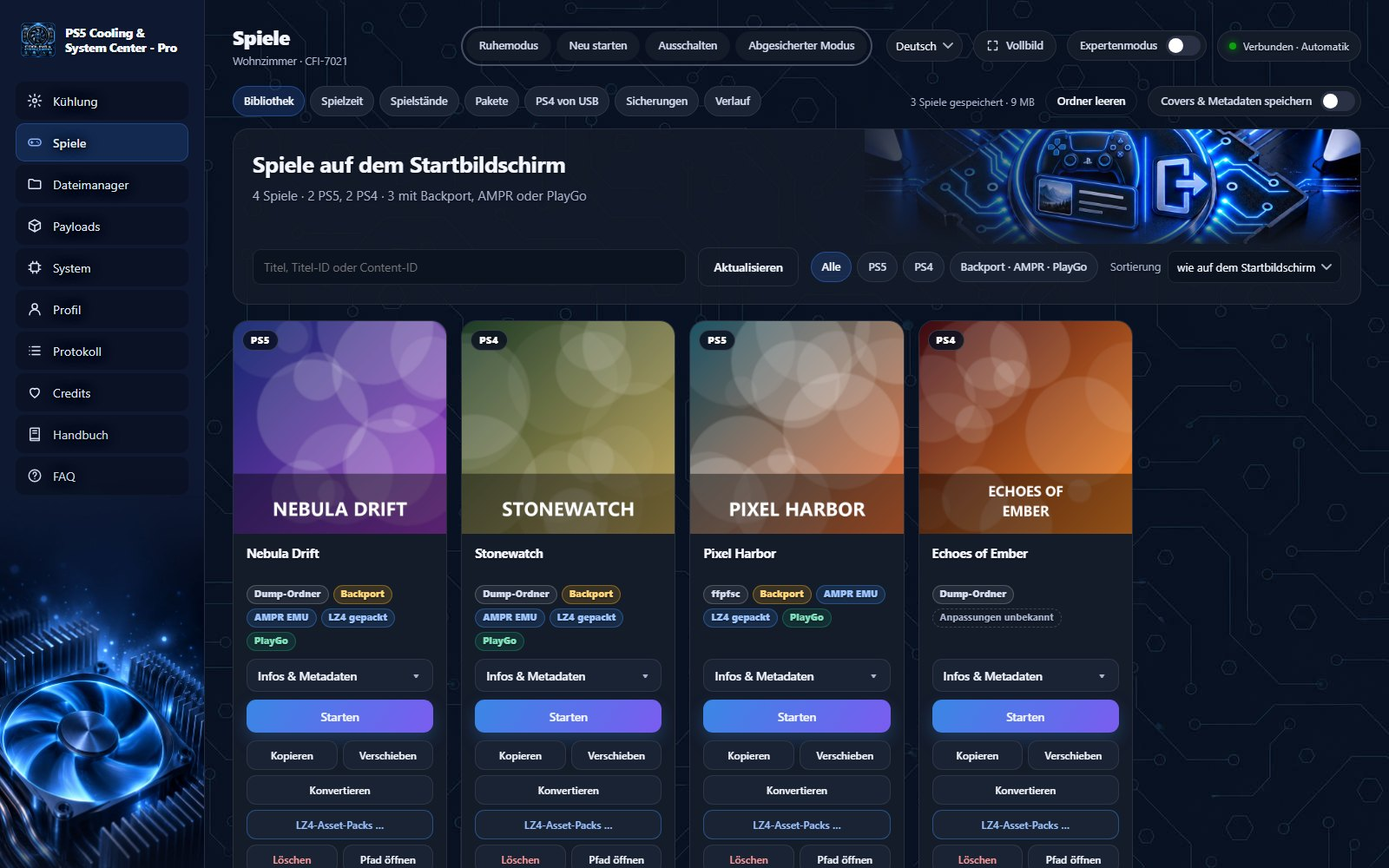
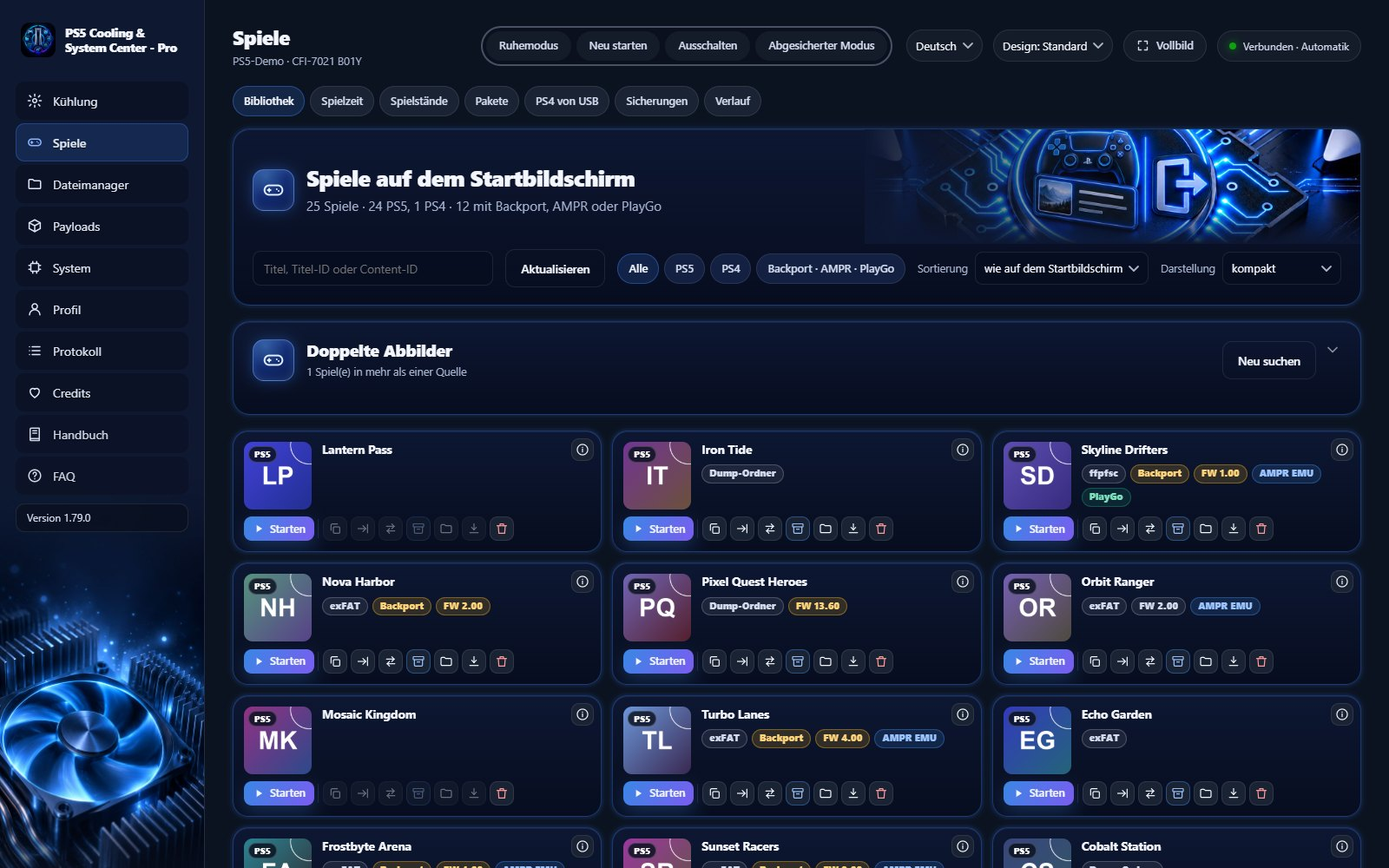
Expert mode only on the System page (default off), README with new pictures
- The expert-mode switch is gone from the header; it sits in the System
  banner next to "Läuft seit". Default is off; an existing "on" is reset once.
- Manual (7 languages) adjusted.
- README (7 languages): new pictures from the current UI with sample data
  (cooling, games in compact view, games in large view, system, profile);
  compact view named as the default, both views in the feature list.

diff --git a/web/handbuch.ru.html b/web/handbuch.ru.html
@@ -136,8 +136,8 @@ background:rgba(20,27,41,.92);border:1px solid rgba(59,130,246,.55);color:#cfe0f
 <div class='tip'>Прежний значок в «Медиа» (PSCC69690) больше не нужен и больше не создаётся; удалённый не вернётся.</div>
 <!--starter--></section><section class='ch' id='oberflaeche'><div class='ch-head'><div class='ch-num'>4</div><h2>Обзор интерфейса</h2></div>
 <p>Слева находится боковая панель с разделами <b>Профиль, Игры, Файлы, Payloads, Охлаждение, Система, Журнал</b> и
-<b>Благодарности</b>. Вверху в строке заголовка, на каждой странице: <b>параметры питания</b>, «Во весь экран», «Режим эксперта» и
-индикатор подключения.</p>
+<b>Благодарности</b>. Вверху в строке заголовка, на каждой странице: <b>параметры питания</b>, «Во весь экран» и
+индикатор подключения. «Режим эксперта» теперь только на странице <b>Система</b> и по умолчанию выключен.</p>
 <p>«Во весь экран» скрывает панель задач и рамку окна браузера. В браузере самой PS5 первое нажатие на странице само переключает на полный экран; на ПК и телефоне страница остаётся в обычном окне, пока вы не нажмёте «Во весь экран» (кнопка запоминает это, «Выйти из полноэкранного режима» снова отключает). Под пунктом «FAQ» в боковой панели указана версия работающего приложения.</p>
 <p><b>Оформление.</b> Рядом с языком выбирается одно из четырёх оформлений: <b>Стандартное</b> (тёмно-синее со светящимися краями), <b>Светлое</b> (приглушённый серо-голубой, не слепит), <b>Тёмное</b> (почти чёрное, без свечения) и <b>Оптимальное</b> (для телевизора и PS5: сильный контраст, крупнее шрифт, без прозрачности и теней, рисуется быстрее всего). Каждое устройство запоминает свой выбор, например «Оптимальное» на телевизоре и «Светлое» на телефоне.</p>
 <h3>Параметры питания</h3>

diff --git a/web/index.html b/web/index.html
@@ -109,10 +109,6 @@
             <svg viewBox="0 0 24 24" aria-hidden="true"><path d="M4 9V4h5M20 9V4h-5M4 15v5h5M20 15v5h-5"></path></svg>
             <span id="fs-text">Vollbild</span>
           </button>
-          <label class="xswitch" for="expert-mode-top">
-            <span>Expertenmodus</span>
-            <span class="switch"><input type="checkbox" id="expert-mode-top"><i></i></span>
-          </label>
           <div class="conn" id="conn"><i></i><span id="conn-text">Verbinde …</span></div>
         </div>
       </header>
@@ -1272,10 +1268,17 @@
           <article class="card page-banner pb-system">
             <h2>Deine Konsole</h2>
             <p class="pb-sub">Hardware, Speicher und Netzwerk auf einen Blick.</p>
-            <div class="pb-stats">
+            <div class="pb-stats pb-stats-x">
               <div class="co-stat"><span class="ov-label">Modell</span><strong class="pb-val" id="sy-model">--</strong></div>
               <div class="co-stat"><span class="ov-label">Firmware</span><strong class="pb-val" id="sy-fw">--</strong></div>
               <div class="co-stat"><span class="ov-label">Läuft seit</span><strong class="pb-val" id="sy-uptime">--</strong></div>
+              <!-- Der Expertenmodus (11.11.2026): nur hier, rechts neben „Läuft seit“ -->
+              <div class="co-stat pb-expert">
+                <label class="xswitch" for="expert-mode" title="zeigt zusätzliche Roh- und Diagnosewerte">
+                  <span>Expertenmodus</span>
+                  <span class="switch"><input type="checkbox" id="expert-mode"><i></i></span>
+                </label>
+              </div>
             </div>
           </article>
 
@@ -1630,10 +1633,6 @@
               <label class="switch-row">
                 <span><b>Prospero Lights aktivieren</b><small>DualSense-Licht als Temperaturampel (best effort)</small></span>
                 <span class="switch"><input type="checkbox" id="s-lightbar-enabled"><i></i></span>
-              </label>
-              <label class="switch-row">
-                <span><b>Expertenmodus</b><small>zeigt zusätzliche Roh- und Diagnosewerte</small></span>
-                <span class="switch"><input type="checkbox" id="expert-mode"><i></i></span>
               </label>
               <label class="switch-row">
                 <span><b>Nur bestätigte Rohsensorwerte</b><small>blendet unbestätigte Kanal-Heuristiken aus</small></span>

diff --git a/web/handbuch.fr.html b/web/handbuch.fr.html
@@ -136,8 +136,8 @@ Arrête une ancienne instance sur la page « Payloads », sinon un redémarrage 
 <div class='tip'>L’ancienne vignette Multimédia (PSCC69690) n’est plus nécessaire ni créée ; une vignette supprimée ne revient pas.</div>
 <!--starter--></section><section class='ch' id='oberflaeche'><div class='ch-head'><div class='ch-num'>4</div><h2>L’interface en un coup d’œil</h2></div>
 <p>À gauche se trouve la barre latérale avec les sections <b>Profil, Jeux, Fichiers, Payloads, Refroidissement, Système, Journal</b> et
-<b>Crédits</b>. En haut, dans la barre d’en-tête, sur chaque page : les <b>options d’alimentation</b>, « Plein écran », « Mode expert » et
-l’indicateur de connexion.</p>
+<b>Crédits</b>. En haut, dans la barre d’en-tête, sur chaque page : les <b>options d’alimentation</b>, « Plein écran » et
+l’indicateur de connexion. Le « Mode expert » ne se trouve plus que sur la page <b>Système</b> et est désactivé par défaut.</p>
 <p>« Plein écran » masque la barre des tâches et le cadre de fenêtre du navigateur. Dans le navigateur de la PS5 elle-même, le premier appui sur la page passe tout seul en plein écran ; sur un PC ou un téléphone, la page reste dans une fenêtre normale jusqu’à ce que vous appuyiez sur « Plein écran » (le bouton s’en souvient, « Quitter le plein écran » le désactive). Sous l’entrée « FAQ » de la barre latérale se trouve la version de l’appli en cours d’exécution.</p>
 <p><b>Thème.</b> À côté de la langue, tu choisis l'un des quatre thèmes : <b>Standard</b> (bleu foncé aux bords lumineux), <b>Clair</b> (gris-bleu doux, n'éblouit pas), <b>Sombre</b> (presque noir, sans halo) et <b>Optimal</b> (pour la télévision et la PS5 : contraste marqué, texte plus grand, sans transparence ni ombres, le plus rapide à afficher). Chaque appareil retient son propre choix, par exemple « Optimal » sur la télévision et « Clair » sur le téléphone.</p>
 <h3>Options d’alimentation</h3>

diff --git a/web/handbuch.it.html b/web/handbuch.it.html
@@ -136,8 +136,8 @@ Chiudi un’istanza vecchia nella pagina «Payloads», altrimenti aiuta un riavv
 <div class='tip'>Il vecchio riquadro Multimedia (PSCC69690) non serve più e non viene più creato; se lo elimini non torna.</div>
 <!--starter--></section><section class='ch' id='oberflaeche'><div class='ch-head'><div class='ch-num'>4</div><h2>L'interfaccia in breve</h2></div>
 <p>A sinistra c'è la barra laterale con le sezioni <b>Profilo, Giochi, File, Payload, Raffreddamento, Sistema, Registro</b> e
-<b>Riconoscimenti</b>. In alto nell'intestazione, su ogni pagina: le <b>opzioni di alimentazione</b>, «Schermo intero», «Modalità esperto» e
-l'indicatore di connessione.</p>
+<b>Riconoscimenti</b>. In alto nell'intestazione, su ogni pagina: le <b>opzioni di alimentazione</b>, «Schermo intero» e
+l'indicatore di connessione. La «Modalità esperto» si trova solo nella pagina <b>Sistema</b> ed è disattivata per impostazione predefinita.</p>
 <p>«Schermo intero» nasconde la barra delle applicazioni e la cornice della finestra del browser. Nel browser della PS5 stessa, il primo tocco sulla pagina passa da solo a schermo intero; su PC o telefono la pagina resta in una finestra normale finché non premi «Schermo intero» (il pulsante lo ricorda, «Esci da schermo intero» lo disattiva). Sotto la voce «FAQ» della barra laterale trovi la versione dell’app in esecuzione.</p>
 <p><b>Tema.</b> Accanto alla lingua scegli uno dei quattro temi: <b>Standard</b> (blu scuro con bordi luminosi), <b>Chiaro</b> (grigio-azzurro tenue, non abbaglia), <b>Scuro</b> (quasi nero, senza bagliore) e <b>Ottimale</b> (per il televisore e la PS5: contrasto deciso, testo più grande, senza trasparenze né ombre, il più rapido da disegnare). Ogni dispositivo ricorda la propria scelta, per esempio «Ottimale» sul televisore e «Chiaro» sul telefono.</p>
 <h3>Opzioni di alimentazione</h3>

diff --git a/web/handbuch.es.html b/web/handbuch.es.html
@@ -136,8 +136,8 @@ Detén una instancia antigua en la página «Payloads»; si no, ayuda reiniciar.
 <div class='tip'>El antiguo mosaico de Multimedia (PSCC69690) ya no hace falta y ya no se crea; si lo borras, no vuelve.</div>
 <!--starter--></section><section class='ch' id='oberflaeche'><div class='ch-head'><div class='ch-num'>4</div><h2>La interfaz de un vistazo</h2></div>
 <p>A la izquierda está la barra lateral con las secciones <b>Perfil, Juegos, Archivos, Payloads, Refrigeración, Sistema, Registro</b> y
-<b>Créditos</b>. Arriba, en la barra superior de cada página: las <b>opciones de alimentación</b>, «Pantalla completa», «Modo experto» y el
-indicador de conexión.</p>
+<b>Créditos</b>. Arriba, en la barra superior de cada página: las <b>opciones de alimentación</b>, «Pantalla completa» y el
+indicador de conexión. El «Modo experto» solo está en la página <b>Sistema</b> y viene desactivado de fábrica.</p>
 <p>«Pantalla completa» oculta la barra de tareas y el marco de ventana del navegador. En el navegador de la propia PS5, la primera pulsación en la página pasa sola a pantalla completa; en un PC o móvil la página permanece en una ventana normal hasta que pulsas «Pantalla completa» (el botón lo recuerda, «Salir de pantalla completa» lo desactiva). Bajo la entrada «FAQ» de la barra lateral está la versión de la app en ejecución.</p>
 <p><b>Diseño.</b> Junto al idioma eliges uno de cuatro diseños: <b>Estándar</b> (azul oscuro con bordes luminosos), <b>Claro</b> (gris azulado suave, no deslumbra), <b>Oscuro</b> (casi negro, sin brillo) y <b>Óptimo</b> (para el televisor y la PS5: contraste fuerte, letra más grande, sin transparencias ni sombras, el más rápido de dibujar). Cada dispositivo recuerda su propia elección, por ejemplo «Óptimo» en el televisor y «Claro» en el móvil.</p>
 <h3>Opciones de alimentación</h3>

diff --git a/web/handbuch.html b/web/handbuch.html
@@ -136,8 +136,8 @@ Eine alte Instanz beendest du auf der Seite „Payloads“, sonst hilft ein Neus
 <div class='tip'>Die frühere Medien-Kachel (PSCC69690) wird nicht mehr gebraucht und nicht mehr angelegt; eine gelöschte kommt nicht zurück.</div>
 <!--starter--></section><section class='ch' id='oberflaeche'><div class='ch-head'><div class='ch-num'>4</div><h2>Die Oberfläche im Überblick</h2></div>
 <p>Links steht die Seitenleiste mit den Bereichen <b>Profil, Spiele, Dateien, Payloads, Kühlung, System, Protokoll</b> und
-<b>Credits</b>. Oben in der Kopfzeile, auf jeder Seite: die <b>Power-Optionen</b>, „Vollbild“, „Expertenmodus“ und die
-Verbindungsanzeige.</p>
+<b>Credits</b>. Oben in der Kopfzeile, auf jeder Seite: die <b>Power-Optionen</b>, „Vollbild“ und die
+Verbindungsanzeige. „Expertenmodus“ steht nur noch auf der Seite <b>System</b> und ist ab Werk aus.</p>
 <p>„Vollbild“ blendet die Taskleiste und den Fensterrahmen des Browsers aus. Im Browser der PS5 selbst schaltet schon der erste Druck auf die Seite von allein in den Vollbild-Modus; am PC und am Handy bleibt die Seite in einem normalen Fenster, bis du „Vollbild“ drückst (der Knopf merkt sich das, „Vollbild beenden“ schaltet es wieder ab). Unter dem Eintrag „FAQ“ in der Seitenleiste steht die Version der laufenden App.</p>
 <p><b>Design.</b> Neben der Sprache wählst du eines von vier Designs: <b>Standard</b> (dunkelblau mit leuchtenden Rändern), <b>Hell</b> (gedämpftes Grau-Blau, blendet nicht), <b>Dunkel</b> (fast schwarz, ohne Leuchten) und <b>Optimal</b> (für Fernseher und PS5: kräftiger Kontrast, größere Schrift, ohne Durchscheinen und Schatten, am schnellsten gezeichnet). Jedes Gerät merkt sich seine Wahl selbst, etwa „Optimal“ am Fernseher und „Hell“ am Handy.</p>
 <h3>Power-Optionen</h3>

diff --git a/web/app.js b/web/app.js
@@ -316,7 +316,18 @@
     try { localStorage.setItem(DIAG_WINDOW_KEY, String(v)); } catch {}
   };
 
+  /* Ab Werk aus (11.11.2026): Wer den Modus vorher eingeschaltet hatte, bekommt ihn einmal ausgeschaltet; danach gilt wieder seine Wahl. */
+  const EXPERT_RESET_KEY = "ps5tm.expertReset";
+  const expertResetOnce = () => {
+    try {
+      if (localStorage.getItem(EXPERT_RESET_KEY) !== "20261111") {
+        localStorage.setItem(EXPERT_MODE_KEY, "0");
+        localStorage.setItem(EXPERT_RESET_KEY, "20261111");
+      }
+    } catch {}
+  };
   const loadExpertMode = () => {
+    expertResetOnce();
     try {
       return localStorage.getItem(EXPERT_MODE_KEY) === "1";
     } catch {
@@ -747,7 +758,7 @@
       saveExpertMode(state.expertMode);
       /* Beide Schalter und die Seitenklasse, wie applyExpertMode() weiter
          unten — hier von Hand, weil die Funktion erst später definiert ist. */
-      ["#expert-mode", "#expert-mode-top"].forEach((sel) => {
+      ["#expert-mode"].forEach((sel) => {
         const el = $(sel);
         if (el) el.checked = state.expertMode;
       });
@@ -12255,10 +12266,9 @@
     });
   }
 
-  /* Zwei Schalter, ein Zustand: oben in der Kopfzeile (neu, 19.09.2026) und
-     der bisherige auf der System-Seite. Die Klasse am <body> blendet den
+  /* Der Schalter steht nur noch auf der System-Seite (11.11.2026; vorher auch oben in der Kopfzeile). Die Klasse am <body> blendet den
      Expertenbereich ein (siehe .expert-only in style.css). */
-  const expertSwitches = ["#expert-mode", "#expert-mode-top"].map((sel) => $(sel)).filter(Boolean);
+  const expertSwitches = ["#expert-mode"].map((sel) => $(sel)).filter(Boolean);
   const applyExpertMode = (on) => {
     state.expertMode = !!on;
     document.body.classList.toggle("expert", state.expertMode);

diff --git a/web/handbuch.sv.html b/web/handbuch.sv.html
@@ -136,8 +136,8 @@ Stoppa en gammal instans på sidan ”Payloads”, annars hjälper en omstart.</
 <div class='tip'>Den tidigare mediebrickan (PSCC69690) behövs inte längre och skapas inte längre; en borttagen kommer inte tillbaka.</div>
 <!--starter--></section><section class='ch' id='oberflaeche'><div class='ch-head'><div class='ch-num'>4</div><h2>Gränssnittet i korthet</h2></div>
 <p>Till vänster finns sidofältet med avsnitten <b>Profil, Spel, Filer, Payloads, Kylning, System, Logg</b> och
-<b>Credits</b>. Högst upp i sidhuvudet, på varje sida: <b>energialternativen</b>, ”Helskärm”, ”Expertläge” och
-anslutningsindikatorn.</p>
+<b>Credits</b>. Högst upp i sidhuvudet, på varje sida: <b>energialternativen</b>, ”Helskärm” och
+anslutningsindikatorn. ”Expertläge” finns nu bara på sidan <b>System</b> och är avstängt från start.</p>
 <p>”Helskärm” döljer webbläsarens aktivitetsfält och fönsterram. I PS5:ans egen webbläsare växlar det första trycket på sidan till helskärm av sig självt; på en dator eller mobil stannar sidan i ett vanligt fönster tills du trycker på ”Helskärm” (knappen minns det, ”Avsluta helskärm” stänger av det igen). Under posten ”FAQ” i sidofältet finns versionen av den app som körs.</p>
 <p><b>Utseende.</b> Bredvid språket väljer du ett av fyra utseenden: <b>Standard</b> (mörkblått med glödande kanter), <b>Ljust</b> (dämpat gråblått, bländar inte), <b>Mörkt</b> (nästan svart, utan glöd) och <b>Optimal</b> (för tv:n och PS5: stark kontrast, större text, ingen genomskinlighet eller skuggor, snabbast att rita). Varje enhet kommer ihåg sitt eget val, till exempel ”Optimal” på tv:n och ”Ljust” på mobilen.</p>
 <h3>Energialternativ</h3>

diff --git a/web/handbuch.en.html b/web/handbuch.en.html
@@ -136,8 +136,8 @@ Stop an old instance on the “Payloads” page, otherwise a restart helps.</div
 <div class='tip'>The former media tile (PSCC69690) is no longer needed and no longer created; a deleted one does not come back.</div>
 <!--starter--></section><section class='ch' id='oberflaeche'><div class='ch-head'><div class='ch-num'>4</div><h2>The interface at a glance</h2></div>
 <p>On the left is the sidebar with the sections <b>Profile, Games, Files, Payloads, Cooling, System, Log</b> and
-<b>Credits</b>. At the top in the header, on every page: the <b>power options</b>, “Fullscreen”, “Expert mode” and the
-connection indicator.</p>
+<b>Credits</b>. At the top in the header, on every page: the <b>power options</b>, “Fullscreen” and the
+connection indicator. “Expert mode” now sits only on the <b>System</b> page and is off by default.</p>
 <p>“Fullscreen” hides the browser's taskbar and window frame. In the PS5's own browser the first press on the page switches to fullscreen by itself; on a PC or phone the page stays in a normal window until you press “Fullscreen” (the button remembers it, “Exit fullscreen” turns it off again). Under the “FAQ” entry in the sidebar you find the version of the running app.</p>
 <p><b>Design.</b> Next to the language you choose one of four designs: <b>Standard</b> (dark blue with glowing edges), <b>Light</b> (muted grey-blue, does not dazzle), <b>Dark</b> (almost black, without glow) and <b>Optimal</b> (for the TV and the PS5: strong contrast, larger text, no translucency or shadows, the fastest to draw). Every device remembers its own choice, for example “Optimal” on the TV and “Light” on the phone.</p>
 <h3>Power options</h3>

diff --git a/web/style.css b/web/style.css
@@ -290,6 +290,9 @@ body.expert .expert-only { display: block; }
 .page-banner h2 { margin: 0; font-size: 20px; letter-spacing: -.015em; }
 .pb-sub { margin: 4px 0 0; max-width: 460px; color: var(--ink-2); font-size: 13.5px; }
 .pb-stats { display: grid; grid-template-columns: repeat(3, minmax(0, 170px)); margin-top: 16px; }
+/* Seite System: der Expertenmodus als vierte Zelle der Zeile, rechts neben „Läuft seit“, mittig zur Zeile (11.11.2026) */
+.pb-stats-x { grid-template-columns: repeat(3, minmax(0, 170px)) auto; }
+.pb-stats-x .pb-expert { align-self: center; display: flex; align-items: center; padding-right: 0; }
 .pb-val { display: block; font-size: 19px; font-weight: 800; letter-spacing: -.02em;
   white-space: nowrap; overflow: hidden; text-overflow: ellipsis; }
 

diff --git a/CHANGELOG.md b/CHANGELOG.md
@@ -2,10 +2,14 @@
 
 ## Unveröffentlicht
 
+### README (11.11.2026)
+- Neue Bilder aus der aktuellen Oberfläche mit Beispieldaten (Namen, Spiele, Adressen und Seriennummer ersetzt): Kühlung (Kopfbild), Spiele in der **kompakten Ansicht** (jetzt Standard), dazu neu **Spiele in der großen Ansicht**, System (mit dem Expertenmodus im Banner) und Profil. Die Beschriftung nennt die kompakte Ansicht als Standard; die Funktionsliste „Spiele“ nennt die beiden Ansichten (sieben Sprachen).
+
 ### Audit 11.11.2026: F-12 und F-14; Zwischenspeicher immer an; Spielkarten springen nicht mehr
 - **F-12, eine Ausführung der App, ohne HTTP erkannt (`src/instlock.c`):** Jede Ausführung hält eine Schreibsperre auf `/data/PS5-Cooling-Center/app.lock`, bis sie endet (das System löst sie auch bei SIGKILL). Eine neu gesendete App findet damit ihre ältere, auch wenn die so überlastet ist, dass sie auf die Statusabfrage mit 503 oder gar nicht antwortet; früher galt sie dann als fremdes Programm, und die neue regelte den Lüfter neben ihr. Die ältere bekommt `SIGTERM` (der Lüfter geht zurück an die Konsole), nach drei Sekunden `SIGKILL`; erst dann starten Lüfter und Port der neuen. Die Suche über den Port bleibt für Ausführungen ohne Sperre (alle bis 1.79.x) und falls die Sperre nicht geht. Host-Test `test/instlock/run.sh` (6 Prüfungen plus SIGKILL-Fall).
 - **F-14, Texteditor und Upload:** Der Texteditor schreibt mit `fsync` vor dem Umbenennen und prüft `close` (nach einem Stromausfall steht die alte oder die neue Datei da, nie eine leere). Eine Teil-Datei `….ps5cc-hochladen` von einem abgebrochenen Upload wird beim nächsten Upload gleichen Namens entfernt (nur eine reguläre Datei; es läuft immer nur ein Upload) statt ihn zu blockieren.
 - **Zwischenspeicher „Covers & Metadaten“ immer an, ohne Anzeige (Wunsch des Users):** Weg sind die Zeile „53 Spiele gespeichert · 13 MB / Ordner leeren / Covers & Metadaten speichern“ der Seite Spiele (Browser) und der Abschnitt „Covers & Metadaten“ unter System → Speicher (Vollbild-App). Der Speicher arbeitet immer (`ps5tm_libcache_enabled()` gibt 1); `library_cache` bleibt im Konfigurationsfeld und in der API, ab Werk 1, und entscheidet nichts mehr. `GET /api/v1/library/cache` und `…/clear` bleiben für Skripte.
+- **Expertenmodus nur noch auf der Seite System, ab Werk aus (Wunsch des Users):** Der Schalter oben in der Kopfzeile ist weg; er steht jetzt nur noch auf der Seite System, im Banner „Deine Konsole“ rechts neben „Läuft seit“ (die Zeile bei den Einstellungen ist entfallen). Wer ihn eingeschaltet hatte, bekommt ihn einmal ausgeschaltet (Merker `ps5tm.expertReset`), danach gilt wieder die eigene Wahl. Handbuch (sieben Sprachen) angepasst.
 - **„Hintergründe der Vollbild-App“ nur noch, wenn die Browser-App aus der Vollbild-App geöffnet wird (Wunsch des Users):** `POST /api/v1/open-ui` kennt `{"from":"fullscreen"}`; die Vollbild-App sendet das, und die Seite trägt dann `?vollbild=1`. Nur mit dieser Adresse zeigt die Browser-App die Karte (System) und lädt ihre Daten; wer die Browser-App allein öffnet (Kachel, PC, Handy), sieht sie nicht. Nichts wird gemerkt. Die Texte der Vollbild-App sagen, wie man dorthin kommt (Options → Weboberfläche im Browser öffnen).
 - **Vorgabe der Spielkarten ist „kompakt“ (Wunsch des Users):** Wer die Darstellung noch nie gewählt hat, sieht die kompakte Ansicht; wer „groß“ gewählt hat, behält es (der Browser merkt die Wahl je Gerät, `web/theme-boot.js`). In der Vollbild-App gibt es diese Wahl nicht.
 - **Kompakte Spielkarten haben immer dieselbe Höhe:** Auf der PS5 waren die Karten erst etwa 18 px höher (158 statt 140) und schrumpften dann von selbst (Screenshots 16:50:11 und 16:50:12). Ursache: Das Titelbild war ein Rasterelement über zwei Zeilen, von denen eine flexibel (`1fr`) ist; so ein Element gibt seine ganze Höhe an die flexible Zeile weiter, und der Browser rechnete das mal so, mal so. Jetzt steht das Bild frei links oben (`position: absolute`, 78 px), die Zeile für die Marken ist `minmax(52px, 1fr)`: Höhe immer 140 px (am PC gemessen; auf der PS5 nach dem Senden zu prüfen).

diff --git a/README.ru.md b/README.ru.md
@@ -57,7 +57,7 @@ Homebrew-пейлоад (ELF), который читает датчики тем
     </td>
     <td width="33%" valign="top">
       <h3>🎮 Игры</h3>
-      Запуск, закрытие, копирование, перенос, конвертация в exFAT/ffpkg/ffpfsc, LZ4-ассет-паки, APR-EMU, PlayGo.
+      Запуск, закрытие, копирование, перенос, конвертация в exFAT/ffpkg/ffpfsc, LZ4-ассет-паки, APR-EMU, PlayGo. Вид: компактный (по умолчанию) или крупный.
     </td>
   </tr>
   <tr>
@@ -98,7 +98,7 @@ Homebrew-пейлоад (ELF), который читает датчики тем
     <td width="50%"><img src="docs/images/ps4-von-usb.jpg" alt="Игры PS4 с USB"></td>
   </tr>
   <tr>
-    <td align="center"><sub>Игры: библиотека с запуском, копированием, конвертацией</sub></td>
+    <td align="center"><sub>Игры: библиотека в компактном виде (по умолчанию) с запуском, копированием, конвертацией</sub></td>
     <td align="center"><sub>PS4 с USB: fake PKG без установки</sub></td>
   </tr>
   <tr>
@@ -134,6 +134,10 @@ Homebrew-пейлоад (ELF), который читает датчики тем
   <tr>
     <td><img src="docs/images/protokoll.jpg" alt="Журнал"></td>
     <td align="center"><img src="docs/images/kuehlung-mobil.jpg" alt="Охлаждение на телефоне" width="240"></td>
+  </tr>
+  <tr>
+    <td><img src="docs/images/spiele-gross.jpg" alt="Игры в крупном виде"></td>
+    <td align="center" valign="middle"><sub>Игры в крупном виде: большие обложки, кнопки с подписями (переключается на странице «Игры»)</sub></td>
   </tr>
 </table>
 <sub>Все изображения с примерными данными и вымышленными играми; интерфейс показан на немецком.</sub>
